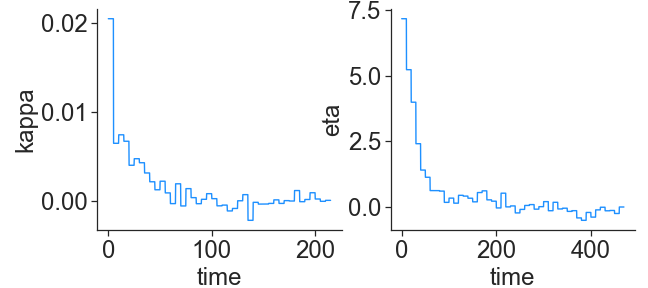
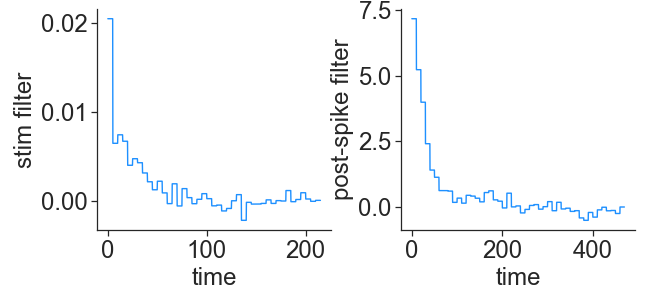
finished example

diff --git a/icglm/glm_decoding.py b/icglm/glm_decoding.py
@@ -5,7 +5,8 @@ from scipy.linalg import solveh_banded, cholesky_banded, cho_solve_banded, solve
 import time
 
 from .kernels import KernelVals
-from .signals import get_arg, get_dt, diag_indices
+from .signals import get_arg, get_dt, diag_indices, searchsorted
+from .spiketrain import SpikeTrain
 
 
 class GLMDecoder:
@@ -419,6 +420,44 @@ class GLMDecoder:
                                               #transform=ax_time_rescale_transform[0].transAxes)
 
         return fig, (axI, axr, ax_log_posterior)
+
+    def plot_decoded_stimulus(self, t0=None, tf=None):
+
+        t0 = t0 if t0 is not None else self.t[0]
+        tf = tf if tf is not None else self.t[-1] + self.dt
+
+        arg0, argf = searchsorted(self.t, [t0, tf])
+
+        fig = plt.figure(figsize=(12, 4.5))
+        r = 7
+        axI = plt.subplot2grid((10, 1), (10 - r, 0), rowspan=r)
+        ax_raster = plt.subplot2grid((10, 1), (0, 0), rowspan=10 - r, sharex=axI)
+
+        axI.plot(self.t[arg0:argf], self.I_true[arg0:argf], color='C0', lw=1, zorder=1)
+        axI.plot(self.t[arg0:argf], self.I_dec[arg0:argf], color='C1', lw=2, zorder=1)
+
+        for n in range(self.n_neurons):
+            st = SpikeTrain(self.t[arg0:argf], self.mask_spk[n][arg0:argf])
+            st.plot(ax=ax_raster, color='C' + str(n % 10))
+
+        if self.var_I_dec is not None:
+            sd = np.sqrt(self.var_I_dec)[arg0:argf]
+            axI.fill_between(self.t[arg0:argf], self.I_dec[arg0:argf] - sd, self.I_dec[arg0:argf] + sd, color='C1', alpha=.4, zorder=2)
+
+        ax_raster.xaxis.set_visible(False)
+        ax_raster.yaxis.set_visible(False)
+        ax_raster.spines['bottom'].set_visible(False)
+        ax_raster.spines['top'].set_visible(False)
+        ax_raster.spines['left'].set_visible(False)
+        ax_raster.spines['right'].set_visible(False)
+        ax_raster.set_ylabel('data')
+        axI.spines['top'].set_visible(False)
+        axI.spines['right'].set_visible(False)
+        axI.set_xlabel('time')
+        axI.set_ylabel('stim')
+
+        return fig, (ax_raster, axI)
+
     
     def save_pdf(self, folder, pdf_name, off=True):
         

diff --git a/icglm/glm_fitting.py b/icglm/glm_fitting.py
@@ -123,7 +123,19 @@ class GLMFitter:
             glm_fitter = cls(ic)
         
         return glm_fitter
-    
+
+    @property
+    def t(self):
+        return self.ic.t
+
+    @property
+    def data(self):
+        return self.ic.data
+
+    @property
+    def stim(self):
+        return self.ic.stim
+
     @classmethod
     def from_IClamp(cls, folder, filename, tf=None):
         ic = IClamp.from_file(folder, filename)
@@ -517,8 +529,10 @@ class GLMFitter:
 
         if axs is None:
             fig, (ax_kappa, ax_eta) = plt.subplots(figsize=(9, 4), ncols=2)
-            ax_kappa.set_xlabel('time'); ax_kappa.set_ylabel('kappa')
-            ax_eta.set_xlabel('time'); ax_eta.set_ylabel('eta')
+            ax_kappa.set_xlabel('time'); #ax_kappa.set_ylabel('$\kappa$')
+            ax_kappa.set_ylabel('stim filter')
+            ax_eta.set_xlabel('time'); #ax_eta.set_ylabel('$\eta$')
+            ax_eta.set_ylabel('post-spike filter')
             ax_kappa.spines['right'].set_visible(False)
             ax_kappa.spines['top'].set_visible(False)
             ax_eta.spines['right'].set_visible(False)

diff --git a/README.md b/README.md
@@ -14,7 +14,7 @@ ic.plot(sweeps=[0]) # plot first sweep
   <img src=/examples/ic_plot.png>
 </p>
 
-### Fitting GLM to data
+### Fitting encoding GLM to data
 ```python
 from icglm.glm_fitting import GLMFitter
 glm_fit = GLMFitter(ic).set_mask_spikes(thr=-13).subsample(10) # find spikes and subsample signal
@@ -30,10 +30,26 @@ glm_fit.plot_filters()
 
 ```python
 from icglm.kernels import KernelFun
-glm_fit.set_mask_spikes_model(trials=9)
-glm_fit.psth(psth_kernel=KernelFun.gaussian_delta(delta=40))
+glm_fit.set_mask_spikes_model(trials=9) # simulating 9 trials of fit GLM
+glm_fit.psth(psth_kernel=KernelFun.gaussian_delta(delta=40)) # computing psth with gaussian kernel
 glm_fit.plot_raster()
 ```
+
 <p align="center">
   <img src=examples/raster_plot.png>
+</p>
+
+### Decoding stimulus from spike data and GLM
+```python
+from icglm.glm_decoding import GLMDecoder
+Imu, Isd = np.mean(glm_fit.stim), np.mean(np.std(glm_fit.stim, 0))
+I0 = np.zeros(len(glm_fit.t))
+decoder = GLMDecoder(glms=[glm_fit.glm], t=glm_fit.t, mask_spk=[glm_fit.mask_spikes], 
+                     tau=3, Imu=[Imu], Isd=[Isd], I_true=(glm_fit.stim - Imu) / Isd)
+decoder.estimate_MAP_I(I0, prior='OU')
+decoder.plot_decoded_stimulus(t0=4000, tf=6500)
+```
+
+<p align="center">
+  <img src=examples/decoding_plot.png>
 </p>
